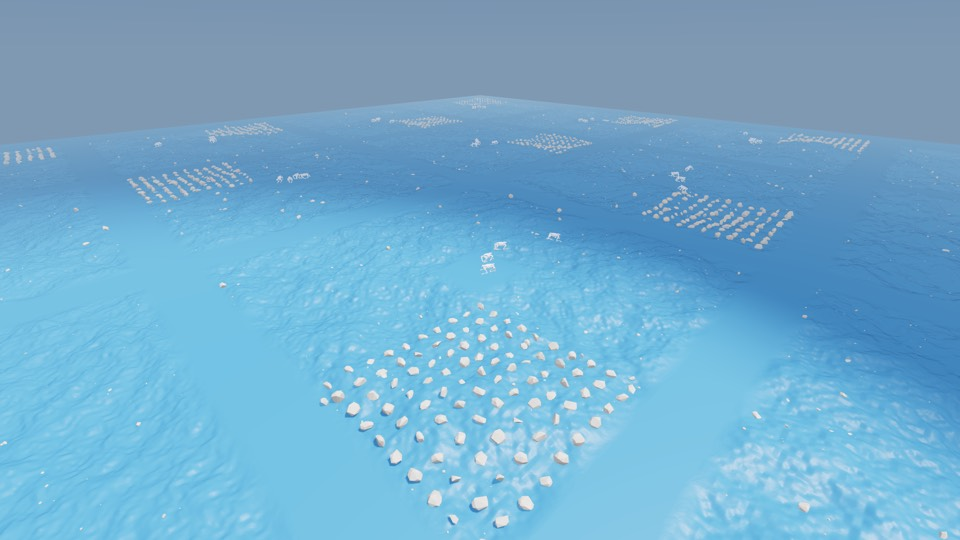
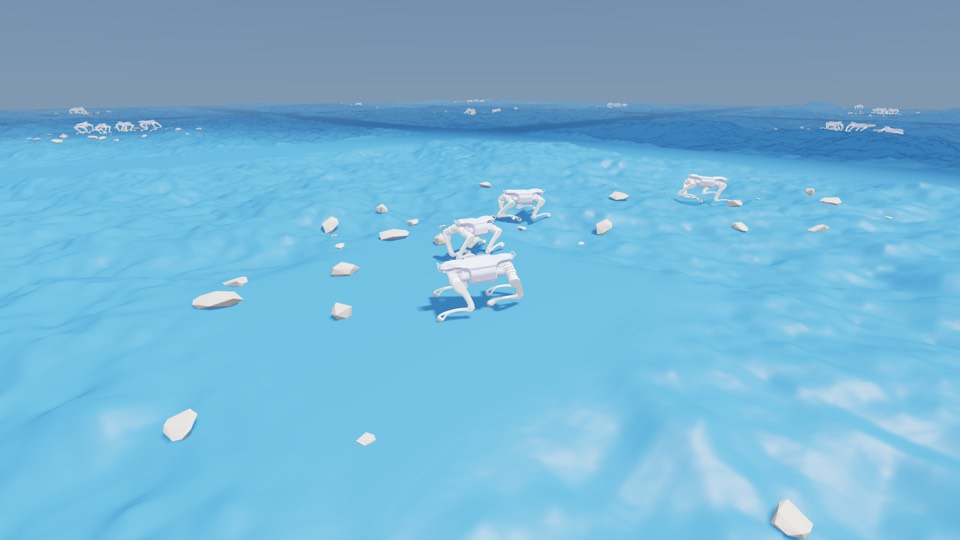
Enhance terrain probing and friction configurations; update gravel field rendering details

diff --git a/scripts/reinforcement_learning/terrain/probe.py b/scripts/reinforcement_learning/terrain/probe.py
@@ -347,7 +347,9 @@ def probe_rocks(args, args_cli):
     env = env.unwrapped
     env.reset()
     tmap, rocks, term = env.scene.terrain.terrain_map, env.scene["rocks"], term_of(env)
-    # the robots stand on their platforms (zero action); their stones lie 1.2-3 m around them
+    # the robots stand on their platforms (zero action); their stones lie 1.2-3 m around them. No recycling while
+    # the stones settle (a robot drifting on its platform would otherwise move some)
+    interval, term.world.rocks.recycle_interval = term.world.rocks.recycle_interval, float("inf")
     data = rocks.data
     speeds = []
     for i in range(round(10.0 / env.step_dt)):
@@ -369,17 +371,18 @@ def probe_rocks(args, args_cli):
           f">= 0.01 m/s; largest displacement over the last 5 s {moved:.1f} mm)")  # fmt: skip
     check("T6", sunk == 0, f"{sunk} stones below the terrain")
     check("T6", rest >= 0.95, f"{rest * 100:.1f} % of stone-steps at rest after 5 s (no sleeping in MuJoCo-Warp)")
+    term.world.rocks.recycle_interval = interval
     # recycle: move robot 0 by 8 m along the tile row; only its stones follow, to the ring ahead of it
     robot = env.scene["robot"]
     target = robot.data.root_link_pos_w.torch.clone()
     target[0, 1] += 8.0
     target[0, 2] = tmap.height(target[:1, :2]).item() + 0.45
-    place(robot, target)
-    run(env, env.step_dt)
     before = data.body_link_pos_w.torch.clone()
-    count = term.recycle_rocks()
-    run(env, env.step_dt)
+    term._last_recycle = -float("inf")  # the event recycles in the next step
+    place(robot, target)
+    run(env, 2 * env.step_dt)
     after = data.body_link_pos_w.torch
+    count = int(((after - before).norm(dim=-1) > 0.5).sum())
     k = after.shape[1]
     dist = (after[0, :, :2] - robot.data.root_link_pos_w.torch[0, :2]).norm(dim=-1)
     gaps = (after[0, :, None, :2] - after[0, None, :, :2]).norm(dim=-1) - (term._rock_sizes[:, None] +

diff --git a/source/isaaclab_tasks/isaaclab_tasks/forge/terrain/world_cfg.py b/source/isaaclab_tasks/isaaclab_tasks/forge/terrain/world_cfg.py
@@ -138,10 +138,11 @@ class RockCfg:
     friction: tuple[float, float] = (0.8, 1.0)
     """Stone friction, uniform per stone (it decides the stone-ground contact). High, so a stone stepped on near its
     edge tilts and rocks on its support rather than sliding away."""
-    torsional_friction: float = 0.02
-    rolling_friction: float = 0.005
-    """MuJoCo torsional [m] and rolling [m] friction of the rocks (``condim`` 6). Without sleeping, small resting
-    rocks otherwise keep rocking at about 1-2 cm/s."""
+    torsional_friction: float = 0.03
+    rolling_friction: float = 0.02
+    """MuJoCo torsional [m] and rolling [m] friction of the stones (``condim`` 6). Without sleeping, flat stones
+    resting on three bumps otherwise keep rocking at 1-3 cm/s (0.02 / 0.005: 88 % of stone-steps at rest). Under a
+    foot the rolling resistance stays small: 0.02 m x 150 N = 3 N m against about 20 N m from a foot near the edge."""
     recycle_interval: float = 1.0
     """Seconds between moves of the stones left behind."""
     recycle_radius: float = 3.0

diff --git a/source/isaaclab_tasks/isaaclab_tasks/forge/velocity/a2_deploy/mdp/commands.py b/source/isaaclab_tasks/isaaclab_tasks/forge/velocity/a2_deploy/mdp/commands.py
@@ -46,7 +46,8 @@ class SteeringCommand(UniformVelocityCommand):
         self.vel_command_b[env_ids, 0] = r.uniform_(*self.cfg.ranges.lin_vel_x)
         self.vel_command_b[env_ids, 1] = 0.0
         self.turn_left[env_ids] = r.uniform_(-self.cfg.max_turn, self.cfg.max_turn)
-        self.turning[env_ids] = True
+        # decided by the drawn turn, not by the first step's measured yaw (a slipping robot can spin > tol per step)
+        self.turning[env_ids] = self.turn_left[env_ids].abs() >= self.cfg.turn_tolerance
 
     def _update_command(self):
         dt = self._env.step_dt

diff --git a/source/isaaclab_tasks/isaaclab_tasks/forge/terrain/REPORT.md b/source/isaaclab_tasks/isaaclab_tasks/forge/terrain/REPORT.md
@@ -111,7 +111,9 @@ outer border (5 m) continues the height of each edge pixel outward instead of si
 **Renders.** One middle-difficulty tile (row 2 of 5: d = 0.7, for the inclines d = 0.5 = 22.5 deg) of each type,
 column 2 (a rough column for the inclines), seed 42, with the robust policy walking for 5 s, seen from the -x
 (downhill) side (Newton GL viewer, which draws the terrain blue and the sand slabs and rocks white; neighboring tiles
-of the same type show at the edges). Regenerate with `probe.py view` (`scripts/reinforcement_learning/terrain/README.md`).
+of the same type show at the edges); for `gravel_field` a robot close-up instead (the stones stay within 3 m of
+their robot; the viewer draws every robot's stones). Regenerate with `probe.py view`
+(`scripts/reinforcement_learning/terrain/README.md`).
 
 | `rough_field` (rigid) | `pit_field` (rigid) |
 | --- | --- |
